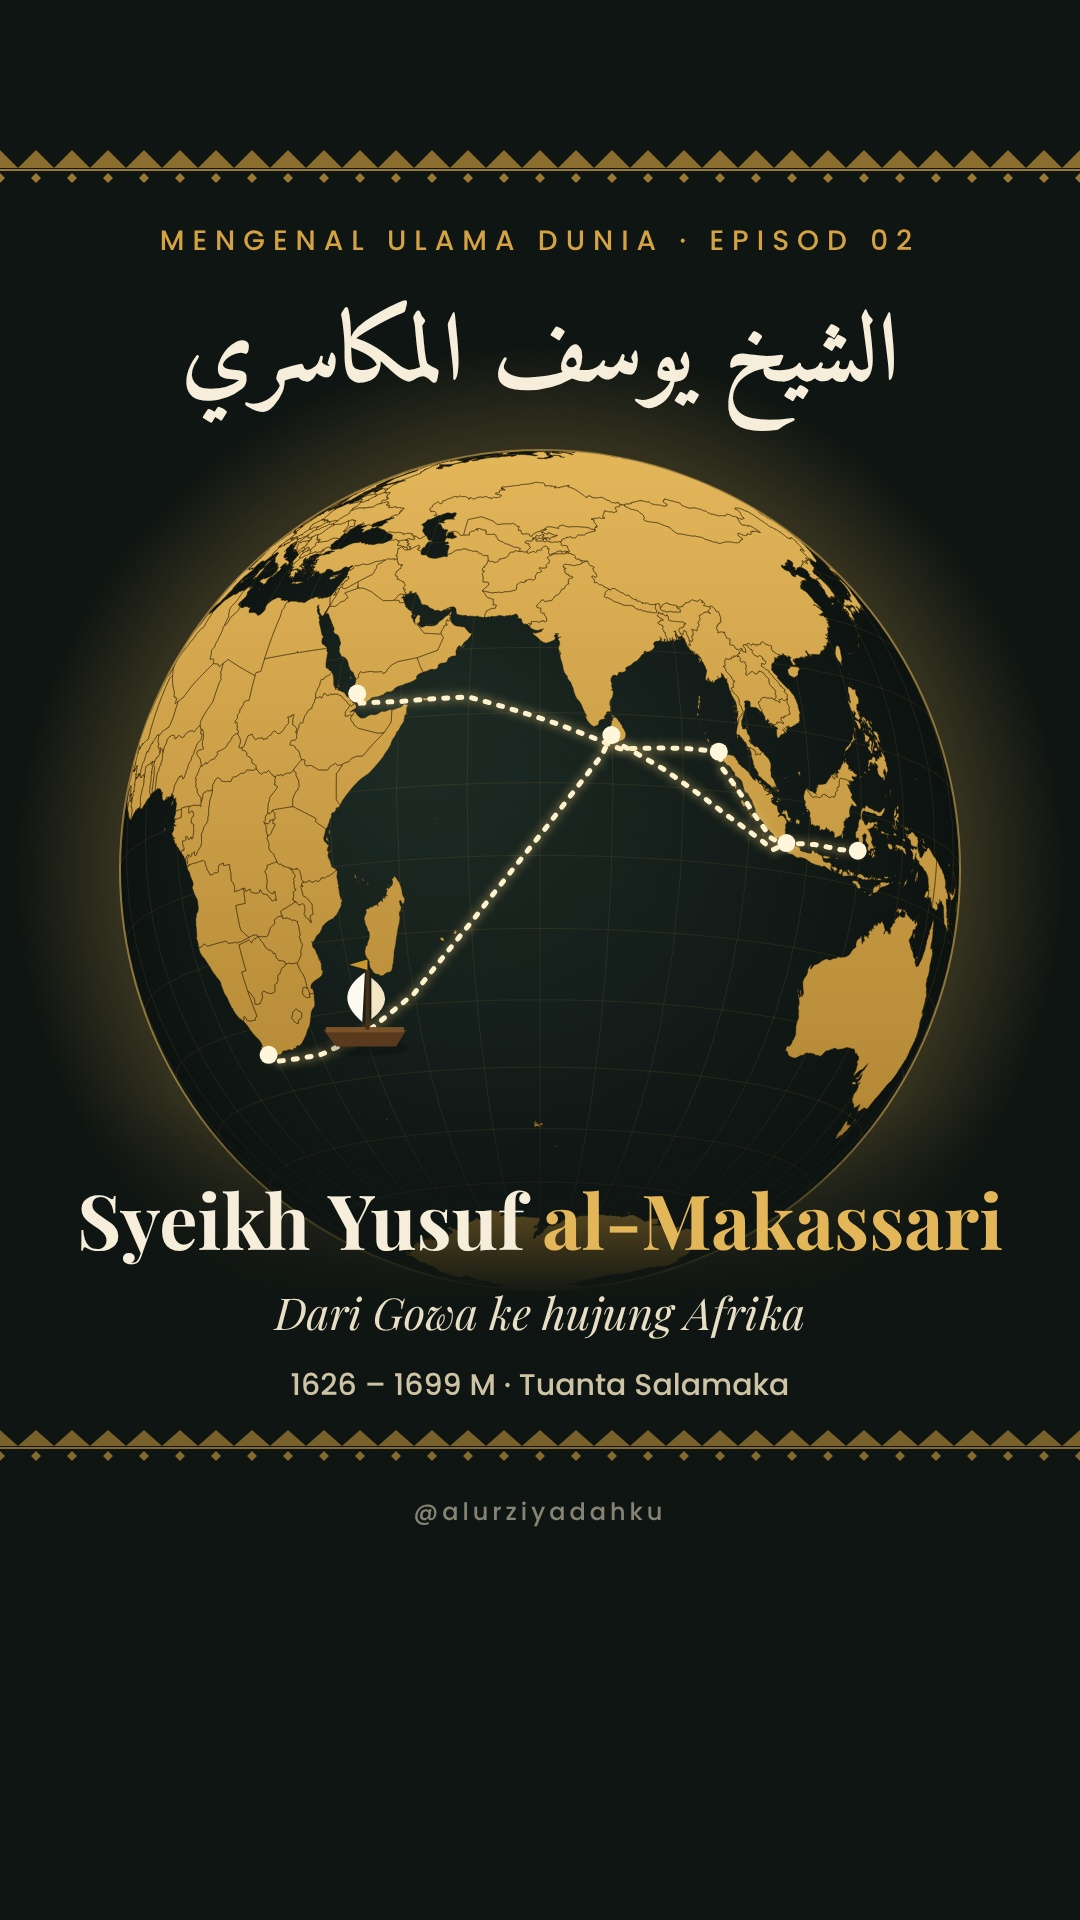
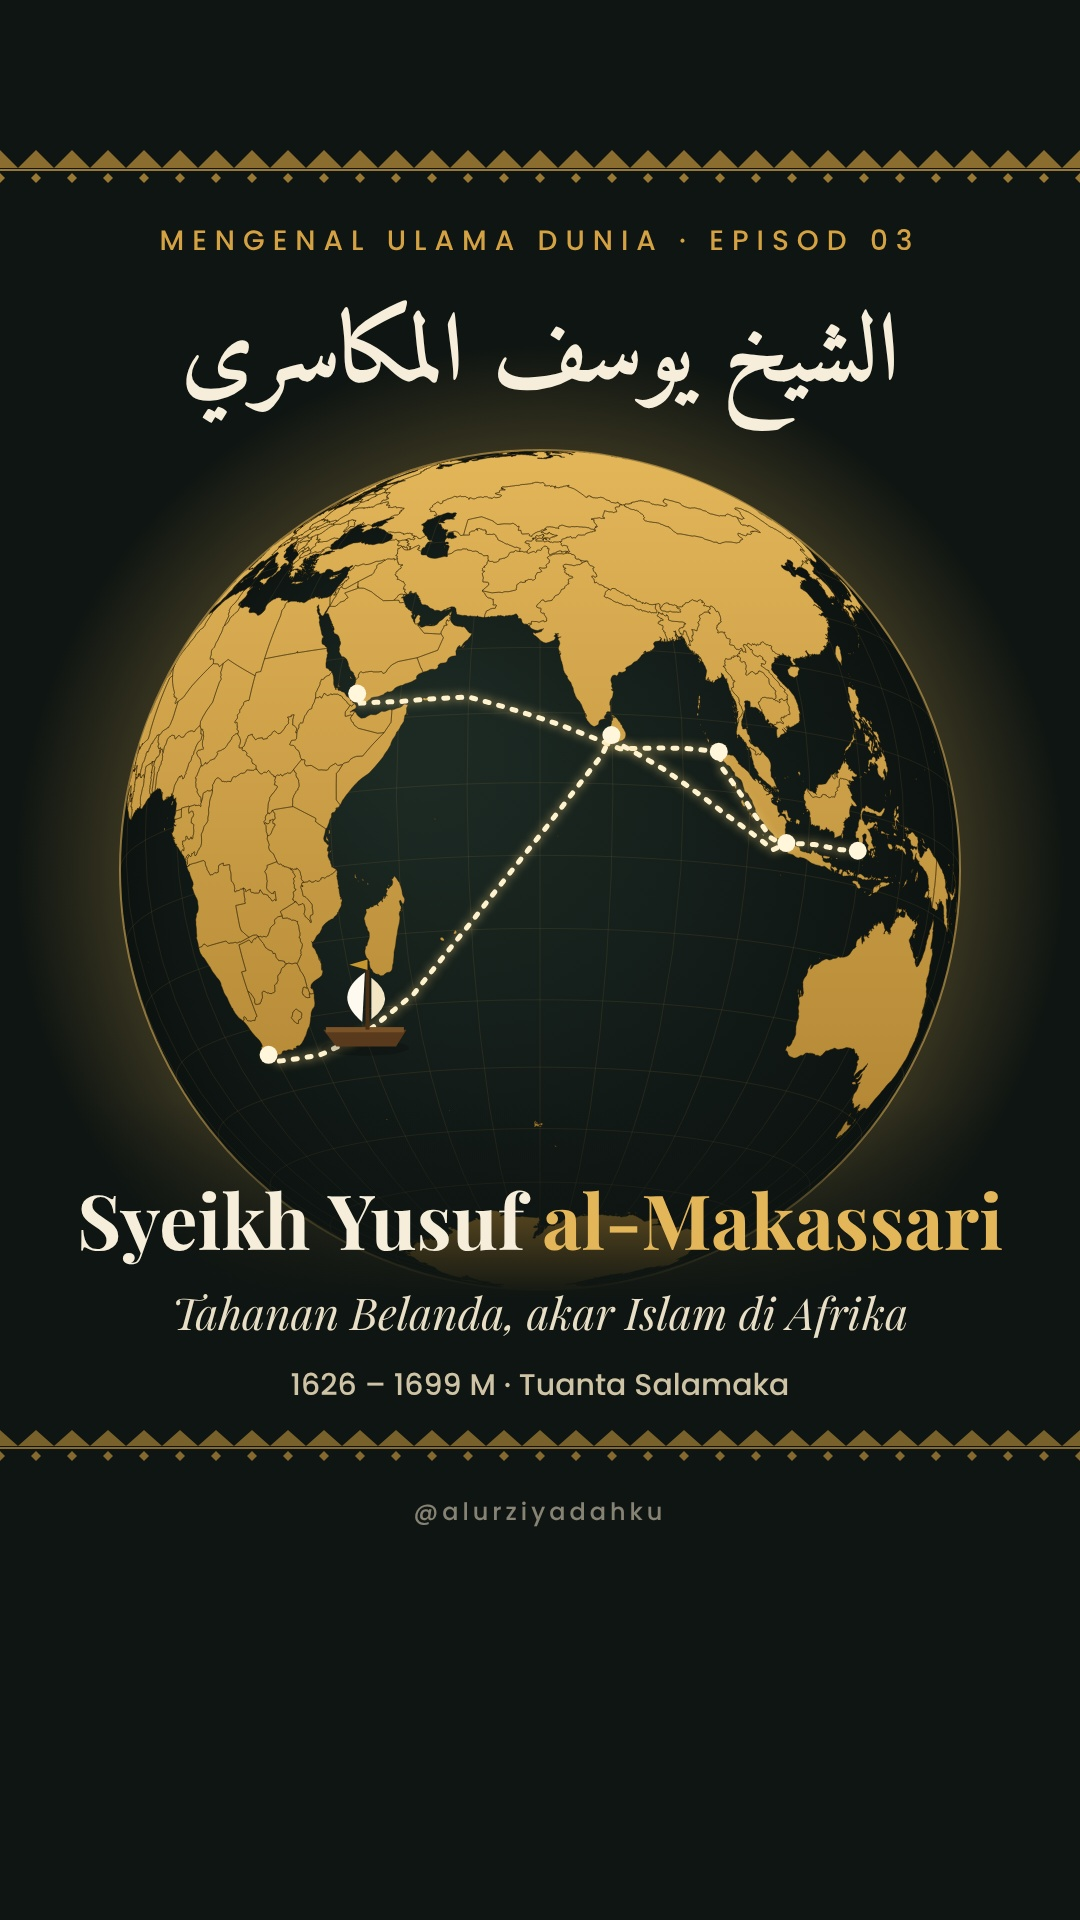
Eps 03 Syeikh Yusuf al-Makassari: naskah Melayu Malaysia yang lebih padat dan sampul baru
Claude-Session: https://claude.ai/code/session_019tAwoDVQWprbX8Q5jzzUHP

Changed region(s): [[0.1833, 0.6562, 0.825, 0.7188]]

diff --git a/mengenal-ulama/ep03-syeikh-yusuf-al-makassari/NASKAH.md b/mengenal-ulama/ep03-syeikh-yusuf-al-makassari/NASKAH.md
@@ -1,127 +1,141 @@
-# Mengenal Ulama Dunia — Episod 03 (draf): Syeikh Yusuf al-Makassari rahimahullah
+# Mengenal Ulama Dunia — Episod 03: Syeikh Yusuf al-Makassari rahimahullah
 
-> **Status:** draf. Naskah dan sampul ini dibuat sebagai Episod 02, kemudian dipindah menjadi Episod 03. Teks "Episod 02" pada sampul dan pembayang episod seterusnya perlu dikemas kini sebelum dirender.
-
-**Durasi:** 2 minit 50 saat (170 saat) · **Format:** 9:16 · **Bahasa:** Melayu · **Jumlah kata narasi:** ±365
+**Durasi:** 2 minit 50 saat (170 saat, tidak melebihi 3 minit) · **Format:** 9:16 ·
+**Bahasa:** Melayu Malaysia · **Jumlah kata narasi:** ±375
 
 ## Cara merakam
 
-- Baca dengan **tenang, lembut dan penuh hormat**, lebih kurang 2–2,3 patah perkataan sesaat.
+- Baca dengan **tenang tetapi bertenaga**. Naskah ini padat, jadi kurangkan jeda panjang.
+- Pada pembukaan, **berhenti sejenak selepas "Alhamdulillah"** supaya penonton sempat mengucapkannya.
 - Sebut **"rahimahullah"** dengan jelas.
 - Berhenti ±1 saat pada setiap tanda **/ /**.
-- Tidak perlu tepat dengan lajur masa. Hantar rakaman, saya akan selaraskan animasi
-  dengan suara tuan dan tambah sari kata (subtitle).
-- Nama tempat: **Gowa** (Go-wa), **Tuanta Salamaka** (Tu-an-ta Sa-la-ma-ka),
-  **Zandvliet** (Zand-flit), **Ceylon** (Si-lon).
+- Hantar rakaman, saya akan selaraskan animasi dengan suara tuan, seperti Episod 02.
+- Sebutan: **Gowa** (Go-wa), **Tuanta Salamaka** (Tu-an-ta Sa-la-ma-ka),
+  **Zandvliet** (Zand-flit), **Ceylon** (Si-lon), **Tirtayasa** (Tir-ta-ya-sa).
 
 ---
 
 ## Naskah narasi
 
-### 1. Hook — 0:00–0:09
-> Seorang ulama dari Gowa, dibuang penjajah ke hujung benua Afrika.
-> Namun di sanalah Islam bertapak, dan namanya dikenang hingga hari ini. / /
+### 1. Hook — 0:00–0:10
+> Sebelum mula, ucapkan **Alhamdulillah** atas nikmat Islam. / /
+> Tahukah tuan-tuan, Islam di Afrika Selatan berakar daripada seorang tahanan Belanda
+> dari Makassar? / /
 
-### 2. Pembukaan siri dan ajakan ikuti — 0:09–0:17
-> Ini **Mengenal Ulama Dunia**, episod kedua.
-> Ikuti kami, supaya kita sama-sama mengenali para pewaris Nabi, satu demi satu. / /
+### 2. Pembukaan siri — 0:10–0:15
+> Ini **Mengenal Ulama Dunia**, episod ketiga. Ikuti kami supaya tidak terlepas. / /
 
-### 3. Zum ke Sulawesi, nama beliau — 0:17–0:30
-> Mari kita ke Sulawesi.
-> Di Gowa, pada tahun seribu enam ratus dua puluh enam Masihi, lahirlah
+### 3. Zum ke Sulawesi, biodata — 0:15–0:28
+> Mari ke Sulawesi.
+> Di Gowa, pada tahun seribu enam ratus dua puluh enam, lahirlah
 > **Muhammad Yusuf al-Makassari**, rahimahullah.
-> Masyarakat Makassar memanggil beliau **Tuanta Salamaka**, tuan guru kita yang selamat. / /
+> Rakyat Makassar menggelarnya **Tuanta Salamaka**, tuan guru kita yang selamat. / /
 
-### 4. Menuntut ilmu — 0:30–1:02
-> Sejak kecil, beliau mempelajari Al-Qur'an dan ilmu agama di tanah Gowa.
-> Pada usia lapan belas tahun, beliau belayar meninggalkan kampung halaman.
-> Beliau singgah di Banten dan Aceh, kemudian menyeberangi Lautan Hindi ke Yaman.
-> Dari sana ke Makkah dan Madinah, hingga ke Damsyik di negeri Syam.
-> Beliau berguru dengan ramai ulama besar, dan menerima ijazah beberapa tarekat,
-> antaranya Tarekat Khalwatiyah. / /
+### 4. Menuntut ilmu — 0:28–0:58
+> Beliau membesar di lingkungan istana Gowa dan mempelajari Al-Qur'an sejak kecil.
+> Pada usia lapan belas tahun, beliau belayar ke Banten, kemudian ke Aceh.
+> Seterusnya beliau menyeberangi Lautan Hindi ke Yaman, lalu ke Makkah dan Madinah,
+> dan berguru dengan Syeikh Ibrahim al-Kurani.
+> Di Damsyik, beliau menerima ijazah Tarekat Khalwatiyah.
+> Lebih kurang dua puluh tahun beliau merantau menuntut ilmu. / /
 
-### 5. Perjuangan di Banten — 1:02–1:20
-> Apabila pulang ke Nusantara, Gowa telah jatuh ke tangan Belanda.
-> Maka beliau menetap di Banten, menjadi guru dan penasihat Sultan Ageng Tirtayasa,
-> dan bersama-sama menentang penjajah VOC.
-> Hingga pada tahun seribu enam ratus lapan puluh tiga… beliau akhirnya ditangkap. / /
+### 5. Perjuangan di Banten — 0:58–1:20
+> Apabila pulang, Gowa telah tewas kepada Belanda.
+> Beliau menetap di Banten, menjadi mufti dan guru kepada Sultan Ageng Tirtayasa.
+> Apabila Banten diserang, beliau memimpin ribuan pengikut berperang secara gerila di
+> hutan Jawa Barat, hingga akhirnya ditangkap pada tahun seribu enam ratus lapan puluh
+> tiga. / /
 
-### 6. Ajakan like — 1:20–1:27
-> Kalau kisah ini menyentuh hati tuan-tuan, tekan butang like, supaya lebih ramai
-> yang mengenali beliau. / /
+### 6. Ajakan like — 1:20–1:25
+> Tekan like jika tuan-tuan mahu kisah ulama kita terus tersebar. / /
 
-### 7. Dibuang negeri — 1:27–1:58
-> Belanda membuang beliau jauh dari tanah air.
-> Mula-mula ke Ceylon, iaitu Sri Lanka.
-> Di sana beliau tetap mengajar dan menulis, dan jemaah haji dari Nusantara singgah
-> untuk menemui beliau.
-> Kerana pengaruhnya masih besar, beliau dibuang lebih jauh lagi, ke Tanjung Harapan
-> di Afrika Selatan, pada tahun seribu enam ratus sembilan puluh empat, bersama empat
-> puluh sembilan orang pengikut. / /
+### 7. Dibuang negeri — 1:25–1:53
+> Belanda takut akan pengaruhnya.
+> Beliau dibuang ke Ceylon, iaitu Sri Lanka.
+> Di sana beliau terus menulis risalah, dan jemaah haji dari Nusantara singgah menemuinya.
+> Kerana itu, Belanda membuangnya lebih jauh, ke Tanjung Harapan di hujung Afrika, pada
+> tahun seribu enam ratus sembilan puluh empat, bersama empat puluh sembilan orang ahli
+> keluarga dan pengikut. / /
 
-### 8. Di hujung Afrika — 1:58–2:15
-> Di Zandvliet, berhampiran Cape Town, beliau membina sebuah komuniti Muslim.
-> Beliau dianggap sebagai pengasas Islam di Afrika Selatan.
-> Beliau wafat di sana pada tahun seribu enam ratus sembilan puluh sembilan. / /
+### 8. Di hujung Afrika — 1:53–2:12
+> Di Zandvliet, beliau menghimpunkan hamba abdi dan orang buangan yang beragama Islam,
+> lalu mengajar mereka solat dan membaca Al-Qur'an.
+> Daripada komuniti kecil inilah, Islam bertapak di Afrika Selatan.
+> Beliau wafat pada dua puluh tiga Mei, seribu enam ratus sembilan puluh sembilan. / /
 
-### 9. Karya dan warisan — 2:15–2:32
-> Beliau meninggalkan banyak risalah, antaranya **Zubdat al-Asrar**, dan
-> **An-Nafhah as-Sailaniyyah** yang ditulis di Ceylon.
-> Makam beliau dimuliakan di Gowa dan di Cape Town.
-> Indonesia mengiktirafnya sebagai Pahlawan Nasional, dan Afrika Selatan turut
-> memberikan penghormatan negara. / /
+### 9. Warisan — 2:12–2:32
+> Pada tahun seribu tujuh ratus lima, jenazahnya dibawa pulang ke Gowa.
+> Hari ini makamnya diziarahi di dua negara.
+> Beliau meninggalkan berpuluh risalah, antaranya **Zubdat al-Asrar**.
+> Indonesia mengiktirafnya sebagai Pahlawan Nasional, dan Afrika Selatan turut memberikan
+> penghormatan kebangsaan kepadanya. / /
 
 ### 10. Penutup — 2:32–2:50
-> Dibuang dari tanah air, namun beliau tidak pernah berhenti berdakwah.
-> Semoga Allah merahmati beliau, dan menjadikan kita penyambung perjuangannya. / /
+> Di setiap tempat beliau dibuang, di situlah Islam tumbuh.
+> Semoga Allah merahmati beliau. / /
 > Ikuti, like dan langgan.
-> Dalam episod seterusnya, kita akan mengenali seorang imam ahli hadis dari Bukhara.
+> Episod seterusnya: seorang ulama muda dari Syam, yang kitabnya dibaca di hampir setiap
+> pondok.
 
 ---
 
-## Data ringkas (untuk kapsyen dan semakan)
+## Biodata (yang dipaparkan dalam video)
 
 | | |
 |---|---|
-| Nama | Muhammad Yusuf al-Makassari; gelaran *Tuanta Salamaka* (Gowa), *Syeikh Yusuf* (Afrika Selatan) |
-| Lahir | Gowa, Sulawesi Selatan, 1626 M / 1036 H |
-| Wafat | Zandvliet, Tanjung Harapan (Cape Town), Afrika Selatan, 23 Mei 1699 M / 1110 H |
-| Rihlah | 1644 belayar: Banten → Aceh → Yaman (Zabid) → Makkah → Madinah → Damsyik |
-| Tarekat | Antaranya Khalwatiyah (Damsyik); juga Naqsyabandiyah, Qadiriyah, Ba'alawiyah |
-| Perjuangan | Guru dan penasihat Sultan Ageng Tirtayasa, Banten; menentang VOC; ditangkap 1683 |
-| Pembuangan | Ceylon (Sri Lanka) 1684; Tanjung Harapan 1694 bersama 49 pengikut |
-| Karya | Antaranya *Zubdat al-Asrar*, *Taj al-Asrar*, *An-Nafhah as-Sailaniyyah* (ditulis di Ceylon) |
-| Makam | Lakiung, Katangka, Gowa (jenazah sebahagiannya dibawa pulang 1705) dan *kramat* di Macassar, Cape Town |
-| Penghormatan | Pahlawan Nasional Indonesia (1995); Afrika Selatan menganugerahkan *Order of the Companions of O.R. Tambo* (2005) — **sila semak semula sebelum disebut dalam kapsyen** |
+| Nama | Muhammad Yusuf al-Makassari (Syeikh Yusuf al-Taj al-Khalwati) |
+| Gelaran | *Tuanta Salamaka* (Gowa) · *Syeikh Yusuf* (Afrika Selatan) |
+| Lahir | 3 Julai 1626 M / 1036 H, Gowa, Sulawesi Selatan |
+| Wafat | 23 Mei 1699 M / 1110 H, Zandvliet, Tanjung Harapan (Cape Town) |
+| Usia | 72 tahun |
+| Makam | Lakiung, Katangka, Gowa (Indonesia) dan *kramat* di Macassar, Cape Town (Afrika Selatan) |
 
-Rujukan: Azyumardi Azra, *Jaringan Ulama Timur Tengah dan Kepulauan Nusantara*;
-Abu Hamid, *Syekh Yusuf Makassar: Seorang Ulama, Sufi dan Pejuang*.
+## Data dan rujukan
 
-Tarikh sebahagian peristiwa (misalnya tahun pulang ke Nusantara) berbeza antara sumber,
-jadi naskah sengaja tidak menyebut tahun yang dipertikaikan.
+| Peristiwa | Keterangan |
+|---|---|
+| 1644 | Belayar meninggalkan Gowa: Banten → Aceh → Yaman → Makkah → Madinah → Damsyik |
+| Guru | Antaranya Syeikh Ibrahim al-Kurani dan Syeikh Ahmad al-Qusyasyi (Madinah); Syeikh Ayyub al-Khalwati (Damsyik) |
+| Banten | Mufti dan guru Sultan Ageng Tirtayasa; memimpin perang gerila menentang VOC |
+| 1683 | Ditangkap Belanda |
+| 1684 | Dibuang ke Ceylon (Sri Lanka) |
+| 1694 | Tiba di Tanjung Harapan bersama 49 orang (ahli keluarga dan pengikut) |
+| 1699 | Wafat di Zandvliet |
+| 1705 | Jenazah dibawa pulang ke Gowa |
+| Karya | Berpuluh risalah dalam bahasa Arab, Bugis dan Makassar; antaranya *Zubdat al-Asrar*, *Taj al-Asrar*, *An-Nafhah as-Sailaniyyah* |
+| 1995 | Pahlawan Nasional Indonesia |
+| 2005 | Penghormatan kebangsaan Afrika Selatan (*Order of the Companions of O.R. Tambo*) — **sila semak sebelum menyebut nama anugerah dalam kapsyen** |
 
-**Area aman YouTube Shorts:** semua tulisan diletakkan di atas ±1.400 px (daripada 1.920)
-dan berjarak dari tepi kanan.
+Rujukan: Azyumardi Azra, *Jaringan Ulama Timur Tengah dan Kepulauan Nusantara Abad
+XVII dan XVIII*; Abu Hamid, *Syekh Yusuf Makassar: Seorang Ulama, Sufi dan Pejuang*.
 
-**Adab visual:** video ini tidak menampilkan wajah atau sosok beliau.
+- Tarikh pulang ke Nusantara berbeza antara sumber, jadi naskah tidak menyebut tahunnya.
+- "Ribuan pengikut" dalam perang gerila: sumber menyebut angka yang berbeza-beza, jadi
+  naskah tidak menyebut angka tepat.
+
+**Tentang gambar tokoh:** tiada gambar sebenar Syeikh Yusuf. Video menggunakan medalion
+kaligrafi nama beliau dan ilustrasi peta.
+
+**Area aman YouTube Shorts:** semua tulisan di atas ±1.400 px (daripada 1.920) dan
+berjarak dari tepi kanan.
 
 ---
 
 ## Kapsyen
 
-> Dilahirkan di Gowa, menuntut ilmu hingga ke Makkah, Madinah dan Damsyik, berjuang
-> menentang penjajah di Banten… lalu dibuang ke Sri Lanka dan Afrika Selatan.
-> Namun di setiap tempat beliau dibuang, di situlah ilmu dan dakwah tumbuh.
+> Ucapkan Alhamdulillah atas nikmat Islam 🤍
+>
+> Lahir di Gowa, menuntut ilmu hingga ke Madinah dan Damsyik, memimpin perang gerila di
+> Banten… lalu dibuang Belanda ke Sri Lanka dan Afrika Selatan. Namun di setiap tempat
+> beliau dibuang, di situlah Islam tumbuh.
 >
 > Inilah Syeikh Yusuf al-Makassari rahimahullah (1626–1699), Tuanta Salamaka.
 > Gowa · Banten · Aceh · Yaman · Makkah · Madinah · Damsyik · Ceylon · Cape Town
 >
-> 📜 Zubdat al-Asrar
-> 📜 An-Nafhah as-Sailaniyyah — ditulis di Ceylon
+> Mengenal Ulama Dunia · Episod 03
+> Ikuti supaya tidak terlepas episod seterusnya
+> Teka di ruangan komen: siapakah ulama muda dari Syam yang kitabnya dibaca di hampir
+> setiap pondok?
 >
-> Mengenal Ulama Dunia · Episod 02
-> Ikuti supaya tidak terlepas episod seterusnya 🤍
-> Teka di ruangan komen: siapakah imam ahli hadis dari Bukhara?
->
-> #syeikhyusuf #tuantasalamaka #ulamanusantara #makassar #capetown #sejarahislam
-> #mengenalulama #dakwah #kisahislam
+> #syeikhyusuf #tuantasalamaka #ulamanusantara #makassar #capetown #afrikaselatan
+> #sejarahislam #mengenalulama #dakwah
